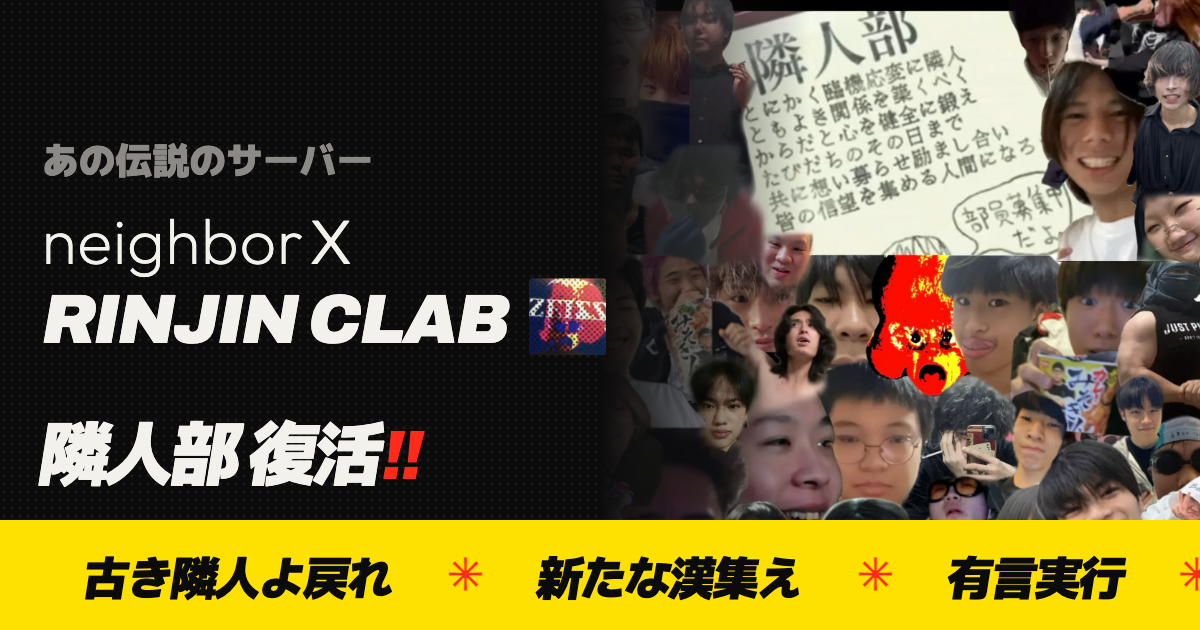
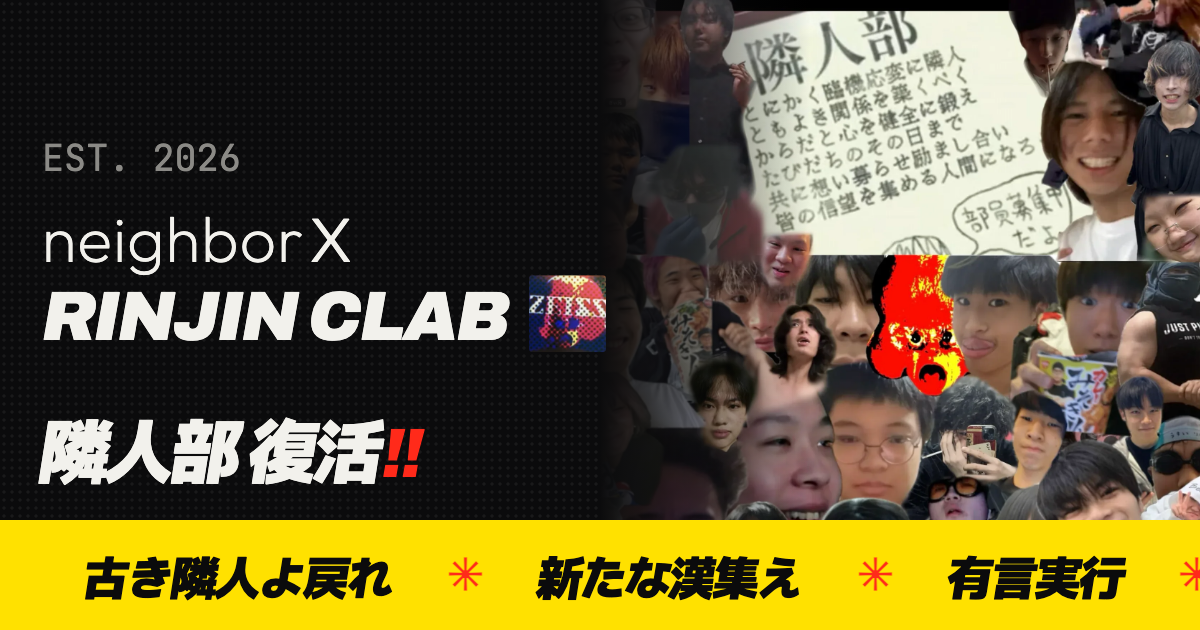
Harden startup for Brave: no-cache server on 4317, unregister stale local SWs, fail-soft scenes; drop JP kicker

Changed region(s): [[0.0308, 0.3619, 0.5242, 0.573], [0.0308, 0.6635, 0.37, 0.7841], [0.0308, 0.2111, 0.3083, 0.3016]]

diff --git a/site.js b/site.js
@@ -12,6 +12,12 @@ const CONFIG = {
 // Choreography is a pure function of progress (scroll p, or intro t).
 // The rAF loop only supplies the clock; nothing animates on its own timers.
 
+// Local preview only: drop service workers left on this localhost port by other projects,
+// which otherwise intercept requests and serve their own cached files.
+if (/^(localhost|127\.0\.0\.1)$/.test(location.hostname) && navigator.serviceWorker) {
+  navigator.serviceWorker.getRegistrations().then((rs) => rs.forEach((r) => r.unregister())).catch(() => {});
+}
+
 const Q = new URLSearchParams(location.search);
 const DEBUG_Y = Q.has("y") ? parseFloat(Q.get("y")) : null; // ?y=2.5 → scroll to 2.5 viewports, frozen
 const FREEZE_T = Q.has("t") ? parseFloat(Q.get("t")) : null; // ?t=0.8 → freeze intro at 0.8s
@@ -146,11 +152,12 @@ void main(){
     gl.viewport(0, 0, canvas.width, canvas.height);
   };
   resize(); addEventListener("resize", resize);
+  canvas.addEventListener("webglcontextlost", (e) => { e.preventDefault(); document.documentElement.classList.add("no-gl"); });
 
   return {
     ready,
     draw({ cell, dev, lens, mx, my, time }) {
-      if (!loaded) return;
+      if (!loaded || gl.isContextLost()) return;
       gl.uniform1i(U.uTex, 0);
       gl.uniform2f(U.uRes, canvas.width, canvas.height);
       gl.uniform2f(U.uMouse, mx * dpr, canvas.height - my * dpr);
@@ -325,13 +332,17 @@ function frame(now) {
   const intro = FREEZE_T !== null ? FREEZE_T : REDUCED || DEBUG_Y !== null ? 9 : (now - introStart) / 1000;
   sceneEls.forEach((el) => {
     const { p, visible } = progressOf(el);
-    if (visible || el.dataset.scene === "stage") scenes[el.dataset.scene](p, el, now, intro);
+    // one broken scene must not freeze the rest of the page
+    try { if (visible || el.dataset.scene === "stage") scenes[el.dataset.scene](p, el, now, intro); }
+    catch (e) { if (!el.dataset.err) { el.dataset.err = 1; console.error(el.dataset.scene, e); } }
   });
-  if (FINE) interact();
+  if (FINE) { try { interact(); } catch {} }
   if (DEBUG_Y === null) requestAnimationFrame(frame);
 }
 
-Promise.all([document.fonts.ready, GL ? GL.ready : Promise.resolve()]).then(() => {
+// Never wait forever on fonts or the texture: blocked requests (Shields, flaky CDN) just fall back.
+const timeout = (ms) => new Promise((r) => setTimeout(r, ms));
+Promise.race([Promise.all([document.fonts.ready, GL ? GL.ready : Promise.resolve()]), timeout(2500)]).then(() => {
   if (DEBUG_Y !== null) {
     // ?y=2.5 (viewports) or ?s=rule&y=0.5 (progress inside a scene / section)
     const target = Q.has("s") ? $(`[data-scene="${Q.get("s")}"], .${Q.get("s")}`) : null;

diff --git a/index.html b/index.html
@@ -14,8 +14,8 @@
   <link rel="preconnect" href="https://fonts.googleapis.com">
   <link rel="preconnect" href="https://fonts.gstatic.com" crossorigin>
   <link href="https://fonts.googleapis.com/css2?family=Archivo:ital,wght@0,800;0,900;1,900&family=Outfit:wght@200;300&family=JetBrains+Mono:wght@400;600&family=Murecho:wght@300;500;700;900&display=swap" rel="stylesheet">
-  <link rel="stylesheet" href="assets/logo.css">
-  <link rel="stylesheet" href="style.css">
+  <link rel="stylesheet" href="assets/logo.css?v=5">
+  <link rel="stylesheet" href="style.css?v=5">
 </head>
 <body>
 
@@ -43,7 +43,7 @@
       <div class="stage-shade" aria-hidden="true"></div>
 
       <div class="hero-copy">
-        <p class="kicker"><span class="mono">RINJIN CLAB</span><span class="sep">/</span><span class="jp-s">あの伝説のサーバー</span></p>
+        <p class="kicker mono"><span>RINJIN CLAB</span><span class="sep">/</span><span>EST. 2026</span></p>
         <h1 class="hero-h1" aria-label="The legend is back.">
           <span class="line"><span class="w">THE</span><span class="w">LEGEND</span></span>
           <span class="line"><span class="w">IS</span><span class="w">BACK<em>.</em></span></span>
@@ -133,6 +133,6 @@
 </footer>
 
 <script src="https://cdn.jsdelivr.net/npm/lenis@1.1.13/dist/lenis.min.js"></script>
-<script src="site.js"></script>
+<script src="site.js?v=5"></script>
 </body>
 </html>

diff --git a/discord/render.html b/discord/render.html
@@ -50,7 +50,7 @@ const t = new URLSearchParams(location.search).get("t") || "icon";
 const lockup = `<span class="lockup"><span><span class="lk-thin">neighbor</span><span class="lk-x">X</span></span><span class="lk-keep"><span class="lk-bold">RINJIN CLAB</span><img class="lk-zeiss" src="../assets/zeiss-mascot.webp"></span></span>`;
 const bar = `<div class="bar"><span>古き隣人よ戻れ</span><b>✳</b><span>新たな漢集え</span><b>✳</b><span>有言実行</span><b>✳</b><span>古き隣人よ戻れ</span></div>`;
 const wide = (cls) => `<div class="art wide ${cls}"><div class="dots" style="opacity:.35"></div>
-  <div class="copy"><div class="eyebrow mono">あの伝説のサーバー</div>${lockup}<div class="sub"><i>隣人部 復活</i><span>!!</span></div></div>
+  <div class="copy"><div class="eyebrow mono">EST. 2026</div>${lockup}<div class="sub"><i>隣人部 復活</i><span>!!</span></div></div>
   <div class="photo"></div>${bar}</div>`;
 const T = {
   icon:   `<div class="art icon"><div class="pink"></div><b>隣</b></div>`,

diff --git a/tools/serve.py b/tools/serve.py
@@ -1,0 +1,9 @@
+# Local preview server that never lets the browser cache (Brave/Chrome would keep old JS/CSS).
+# python3 tools/serve.py  → http://localhost:4317
+import http.server, os, functools
+os.chdir(os.path.dirname(os.path.dirname(os.path.abspath(__file__))))
+class NoCache(http.server.SimpleHTTPRequestHandler):
+    def end_headers(self):
+        self.send_header("Cache-Control", "no-store")
+        super().end_headers()
+http.server.ThreadingHTTPServer(("", 4317), NoCache).serve_forever()

diff --git a/README.md b/README.md
@@ -28,7 +28,7 @@ gh api -X POST repos/{owner}/rinjinclab/pages -f "source[branch]=main" -f "sourc
 
 ## ローカル確認
 ```
-python3 -m http.server 4173   # → http://localhost:4173
+python3 tools/serve.py   # → http://localhost:4317 (no-cache)
 ```
 WebGL のテクスチャは file:// では読めないので、必ずサーバー経由で開く。
 
